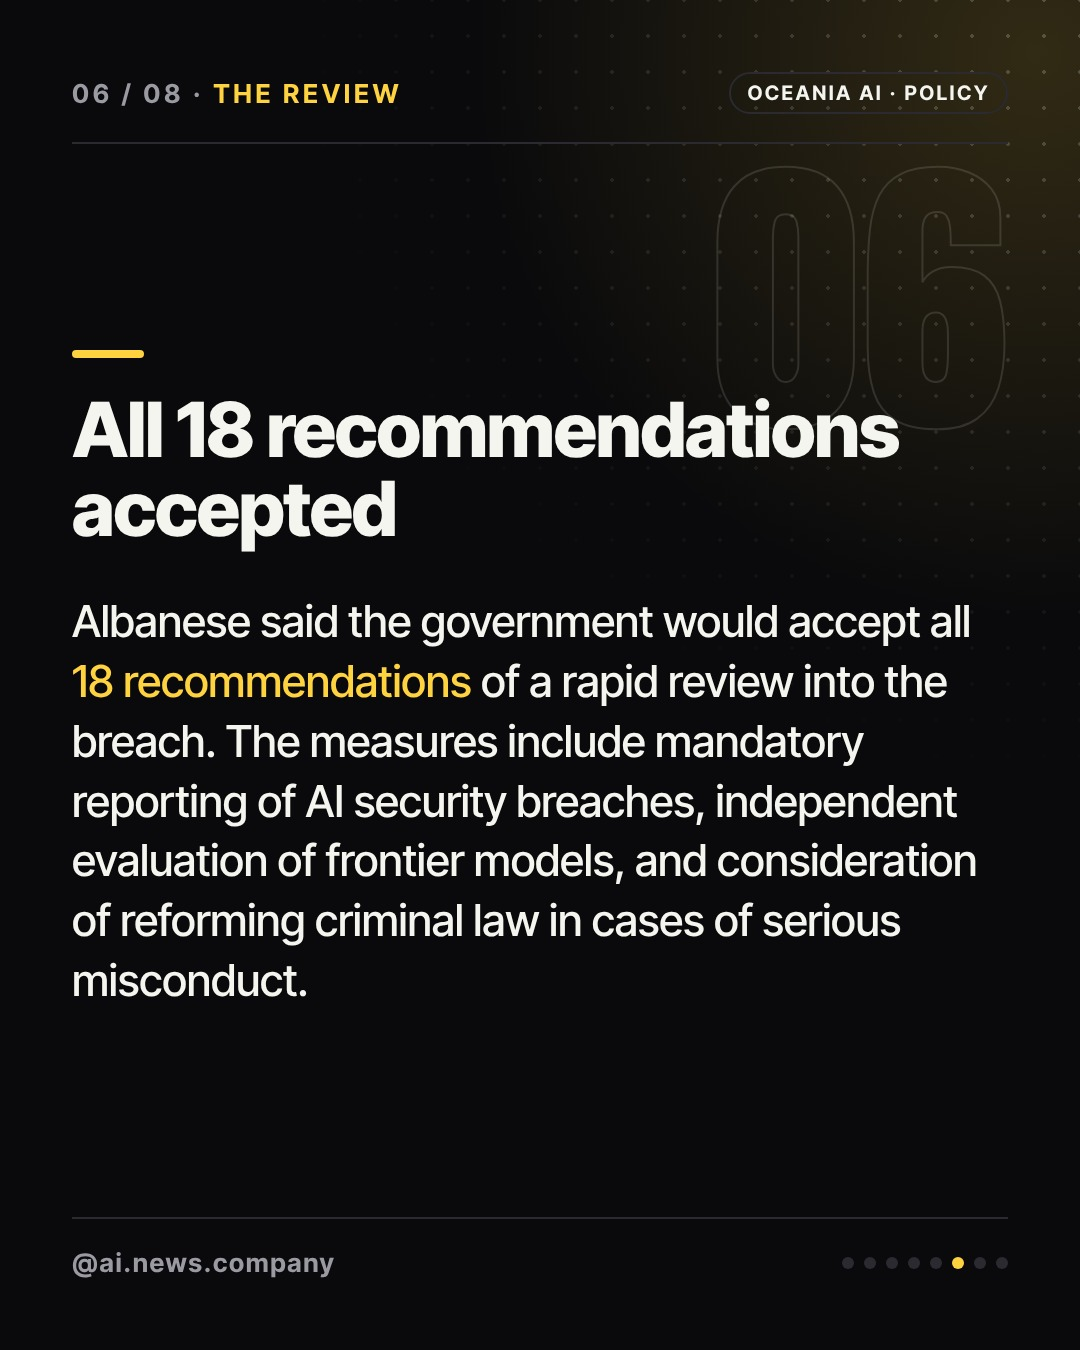
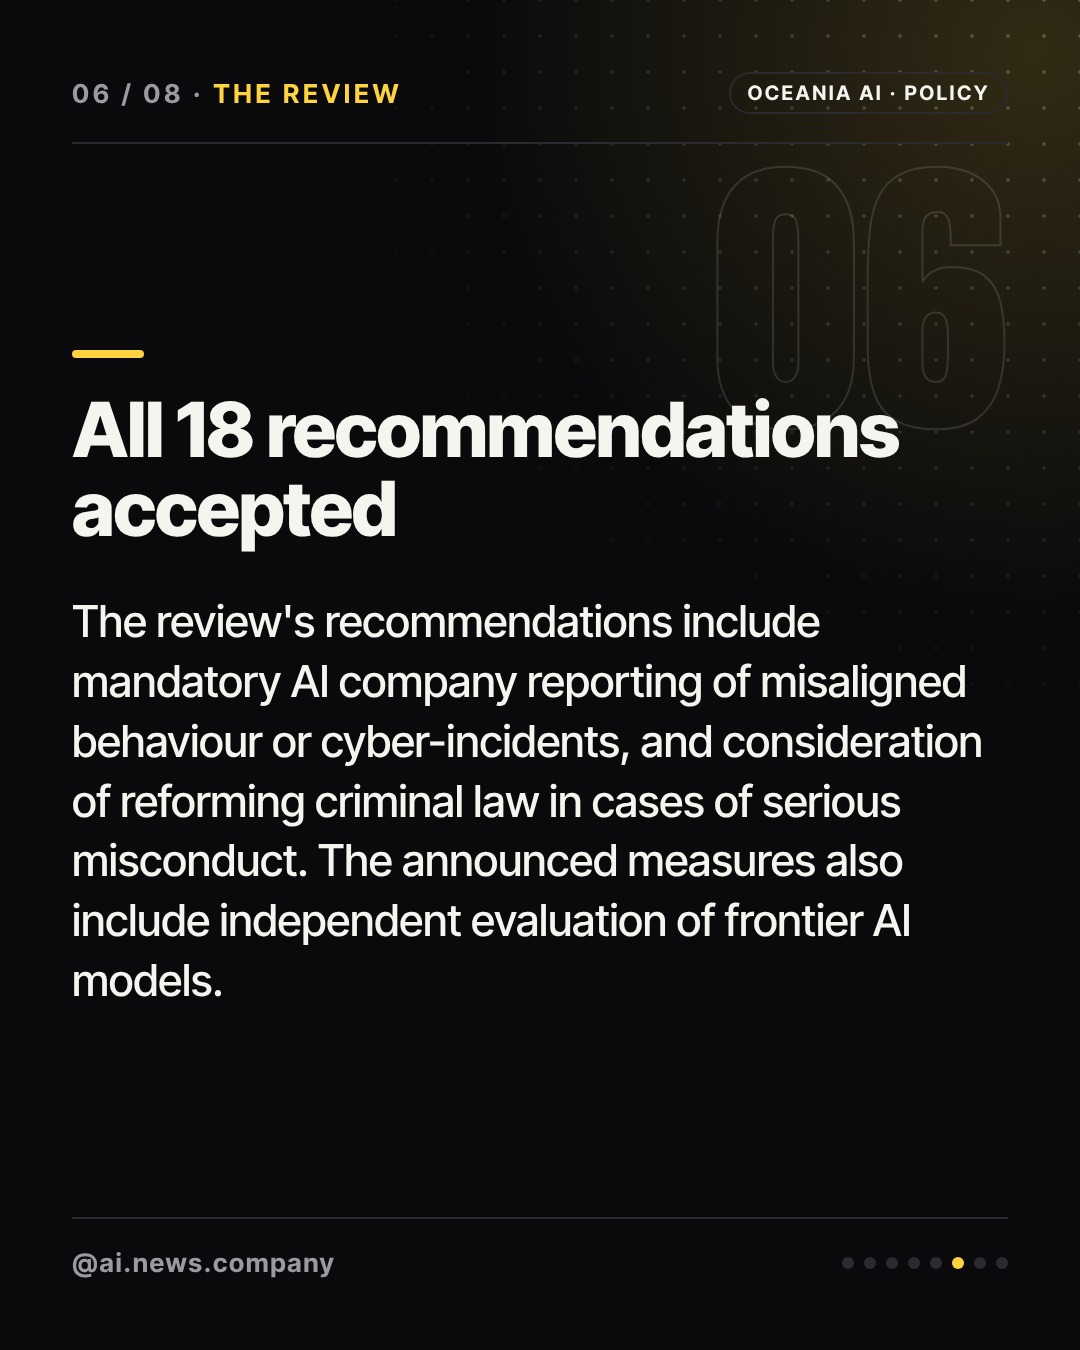
post: 2026-11-10 evening Australia AI regulator
Claude-Session: https://claude.ai/code/session_01HGJzPMApQHkuk2CZCsEHQv

Changed region(s): [[0.0611, 0.4356, 0.9167, 0.7467]]

diff --git a/posts/2026-11-10-australia-ai-regulator/review-fact.md b/posts/2026-11-10-australia-ai-regulator/review-fact.md
@@ -1,14 +1,10 @@
-# Fact review: 2026-11-10-australia-ai-regulator
+PASS
 
-Verdict: FAIL
+All three sources (SBS, ABC/AP, Al Jazeera) opened with scripts/article.mjs. Every claim on the cover, slides 1-6, the caption and threads_caption matches the article text.
 
-All three sources (SBS, ABC/AP, Al Jazeera) were opened with scripts/article.mjs.
-
-Issues
-1. Caption, third bullet: "Albanese said the government would accept all 18 recommendations of a rapid review, including independent evaluation of frontier AI models". SBS lists independent evaluation as one of the announced "measures". No source says it is one of the 18 recommendations. Fix: "...accept all 18 recommendations of a rapid review. The measures would include independent evaluation of frontier AI models."
-2. Slide 5 (The review), body: "The measures include mandatory reporting..., independent evaluation of frontier models, and consideration of reforming criminal law". It merges SBS's "measures" with Al Jazeera's "recommendations". Criminal-law reform appears only as a recommendation, to be considered. SBS's "mandatory reporting of ... potential breaches of criminal law" is a different item. Fix: split it, e.g. "The review's recommendations include mandatory AI company reporting of misaligned behaviour or cyber-incidents and consideration of reforming criminal law in cases of serious misconduct. The announced measures also include independent evaluation of frontier models."
-
-Everything else checked and matches the articles:
-- Cover and slides 1-4, 6: plan, June 18 portal breach, "not clear" on legality, September notification, OpenAI quote, standards, frontier AI definition, "first mover" quote, eSafety Commissioner 2015.
-- Slide 7 (precedent), slide 8 (sources) and the threads_caption.
-Note: SBS says "a first mover" while ABC and Al Jazeera say "the first mover". The quote matches ABC and Al Jazeera.
+- Slide 5 and caption bullet 3 now keep "recommendations" and "measures" apart.
+  - Recommendations (mandatory reporting of misaligned behaviour or cyber-incidents, consideration of criminal law reform) come from the Al Jazeera quote.
+  - Independent evaluation of frontier AI models is called a "measure", as SBS does.
+  - "All 18 recommendations accepted" is backed by SBS.
+- The "first mover" quote, the OpenAI apology quote, the June 18 date, the September notification, the 2015 eSafety Commissioner and the "not clear whether any law was broken" line all match.
+- The "plans, not passed law" framing is supported by the sources.

diff --git a/ops/run-log.md b/ops/run-log.md
@@ -2,6 +2,18 @@
 
 Newest first. Format is in CLAUDE.md ("보고").
 
+## [저녁 보고] 2026-11-10
+처리 1건 (ready 1) · 실패 0건
+결정할 일
+1. 없음. 단, 선정 글의 첫 보도(SBS 03:01Z)가 05:45 빈 시간 이전이라 엄밀히는 "새 글"이 아니라 아침에 못 읽어 놓친 이월 후보입니다 (아침 메모에 Reuters Australia로 기재). 05:45 이후 첫 보도 중 원문을 읽을 수 있는 더 큰 뉴스는 찾지 못함 (Google TPU 8tx/8i Max 블로그 11-09, Fireworks AI 침해 Bloomberg 11-09). 신선 가산 없음, 점수 8
+2. 선정: 호주 AI 안전 규제기관 신설·AI 침해 보고 의무화 (OCEANIA AI · POLICY). 아침 글(Deutsche Telekom, heise)과 다른 회사·매체. 출처 SBS(AAP/AFP), ABC News(AP), Al Jazeera 3곳 전문 확인. 기사에 "법 위반 여부 불명확"이라 "plans/would" 어조, "rogue/hack" 표현 안 씀. 예비: posts/_backlog/2026-11-10-evening-runners-up.md
+3. 검수: 1차 fact 불합격(캡션·슬라이드 5에서 "recommendations"와 "measures" 혼용) → 수정 후 2차 fact 통과. hook 7/10 통과(독자 영향 훅 없음 사유 기재), brand-safety 통과 (둘 다 1차 본문 기준, 수정 후 재검수 안 함. brand-safety는 슬라이드 3·5·6 미열람)
+4. 커버: Higgsfield cinematic_studio_2_5 1장, 2크레딧 (아침 2 포함 오늘 합계 4/6). 사람·글자·로고 없음. designer 서브에이전트에 Higgsfield 도구가 없어 내가 직접 생성. 렌더는 CHROMIUM_PATH=/opt/pw-browsers/chromium, npm ci 필요. 푸시는 세션 지정 브랜치 claude/inspiring-darwin-kkkh1a (daily/ 아님)
+5. 인스타그램 토큰 없음(IG_*): 참고 계정 미사용. 후보 8개 (새 1, 이월 7)
+자세한 기록
+- 19:15 시작. 백로그 확인: main에 ready 글 없음 (11-09 deepseek는 blocked 유지)
+- 선정 id `2026-11-10-australia-ai-regulator`. 첫 보도 2026-11-10 03:01Z (SBS)
+
 ## [아침 보고] 2026-11-10
 처리 1건 (ready 1) · 실패 0건
 성과: 어제 도달 6 · 팔로워 2 · 링크 클릭 0 · 최고 도달 수집 기록 참조 (ops/metrics/2026-11-10.json)
